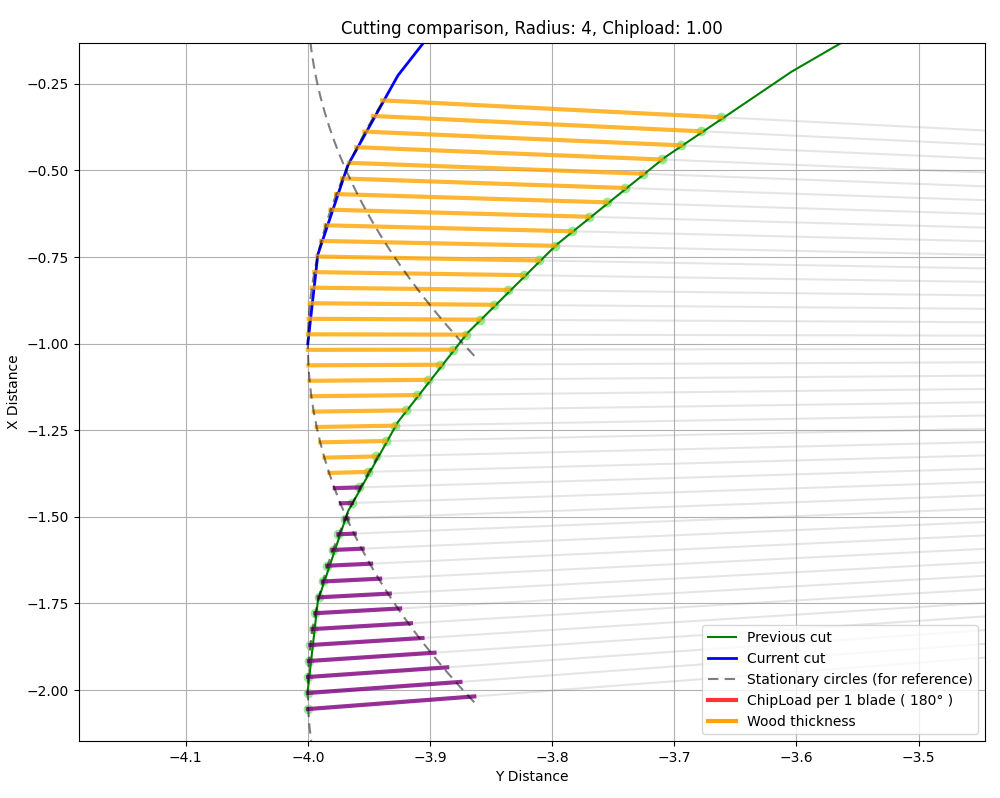
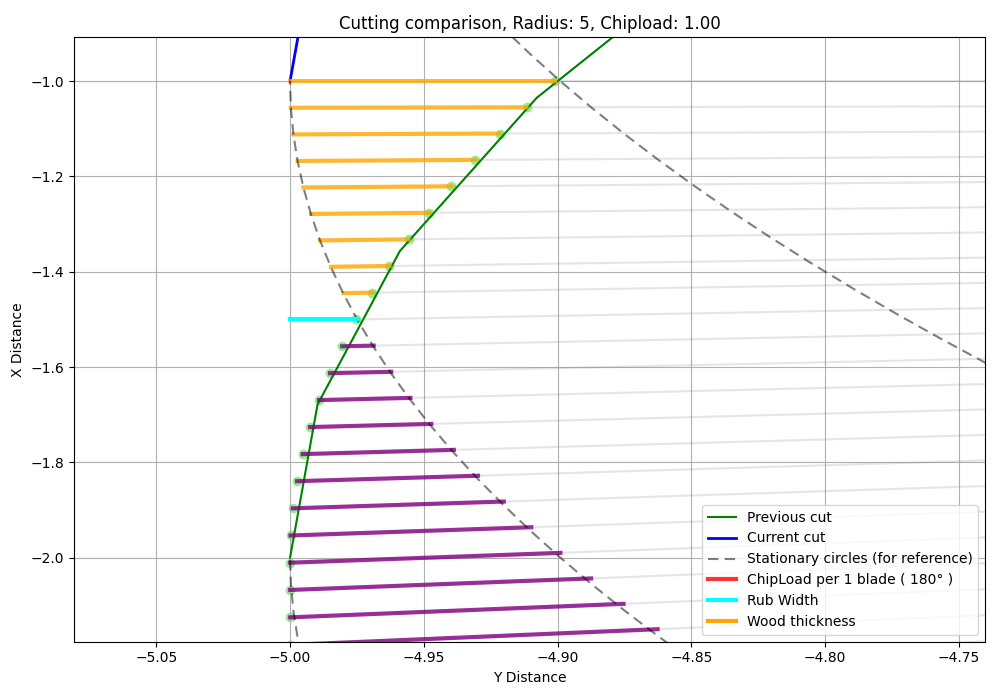
Rubbing pattern width

diff --git a/CirclesOffset.py b/CirclesOffset.py
@@ -254,6 +254,14 @@ if __name__ == "__main__":
         [0, 0], [-Chip, 0], label="ChipLoad per 1 blade ( 180° )",
         linewidth=3, color='red', alpha=0.8
     )
+    print(Radius, Chip)
+    RubWidth = Radius - np.sqrt(np.pow(Radius, 2) - np.pow(Chip / 2, 2))
+    print("Rub Width:", RubWidth)
+    # plt.plot(
+    # [-Radius, -Radius + RubWidth], [-Chip * 1.5, -Chip * 1.5],
+    # color='Cyan', linewidth=3, label='Rub Width'
+    # )
+
     # plt.plot(XDeg / 90 * Radius, tempY + Chip, label="Cos function", alpha=0.7)
     handles, labels = plt.gca().get_legend_handles_labels()
     newLine = Line2D([0, 0], [0, 1], color='orange', alpha=1, linewidth=3)
@@ -280,7 +288,7 @@ if __name__ == "__main__":
 
     plt.figure()
     # Y = moving_average(Y, 5, "keep")
-    plt.plot(XDeg, EngageY, label="Moving cutter approximation", color='green', linewidth=3)
+    plt.plot(XDeg, EngageY, label="Moving cutter model", color='green', linewidth=3)
 
     XRad = np.deg2rad(XDeg)
     tempY = np.cos(XRad) * Chip  # + np.sin(XRad) * Chip

diff --git a/Rubing.py b/Rubing.py
@@ -1,0 +1,29 @@
+import os
+import math
+import numpy as np
+import matplotlib.pyplot as plt
+
+from matplotlib.cm import get_cmap
+from matplotlib.colors import Normalize
+from matplotlib.lines import Line2D
+from yasiu_math.convolve import moving_average
+from yasiu_native.time import measure_real_time_decorator
+
+# from numba import jit, njit
+import math
+import matplotlib.pyplot as plt
+
+
+rad = np.linspace(2, 6, 100)
+chipload = np.linspace(0.1, 0.5, 100)
+XRadius, YChip = np.meshgrid(rad, chipload)
+w = rad - np.sqrt(np.pow(XRadius, 2) - np.pow(YChip / 2, 2))
+
+plt.contour(XRadius, YChip, w, levels=10, cmap='turbo_r')
+plt.title("Rub pattern height")
+plt.ylabel("Chipload [mm]")
+plt.xlabel("Radius [mm]")
+plt.colorbar()
+plt.grid()
+plt.tight_layout()
+plt.show()

diff --git a/README.md b/README.md
@@ -86,12 +86,19 @@ Blue colors means work conditions are more stable! This should increase life of 
 
 Keep in mind bigger engage increased load on spindle.
 
-## Extra plot of rubbing
+
+## Extra section with intercuting width
+### Rubbing for small chiploads
 New cut angle is changing based on chipload and radius!
 
 But distance is always the same, exactly **50%** of chipload for any blade number.
 
-Rubbing is chipload dependent.
 For smaller chiploads there is not enough material to cut.
 
 ![Rubbing example](images/RubbingExample.png)
+
+Width of rubbing can be calculated using given formula:
+
+$$W_r = Radius - \sqrt{Radius^2 - \left(\frac{Chipload}{2}\right)^2}$$
+
+![Rubbing plot](images/RubHeight.png)
